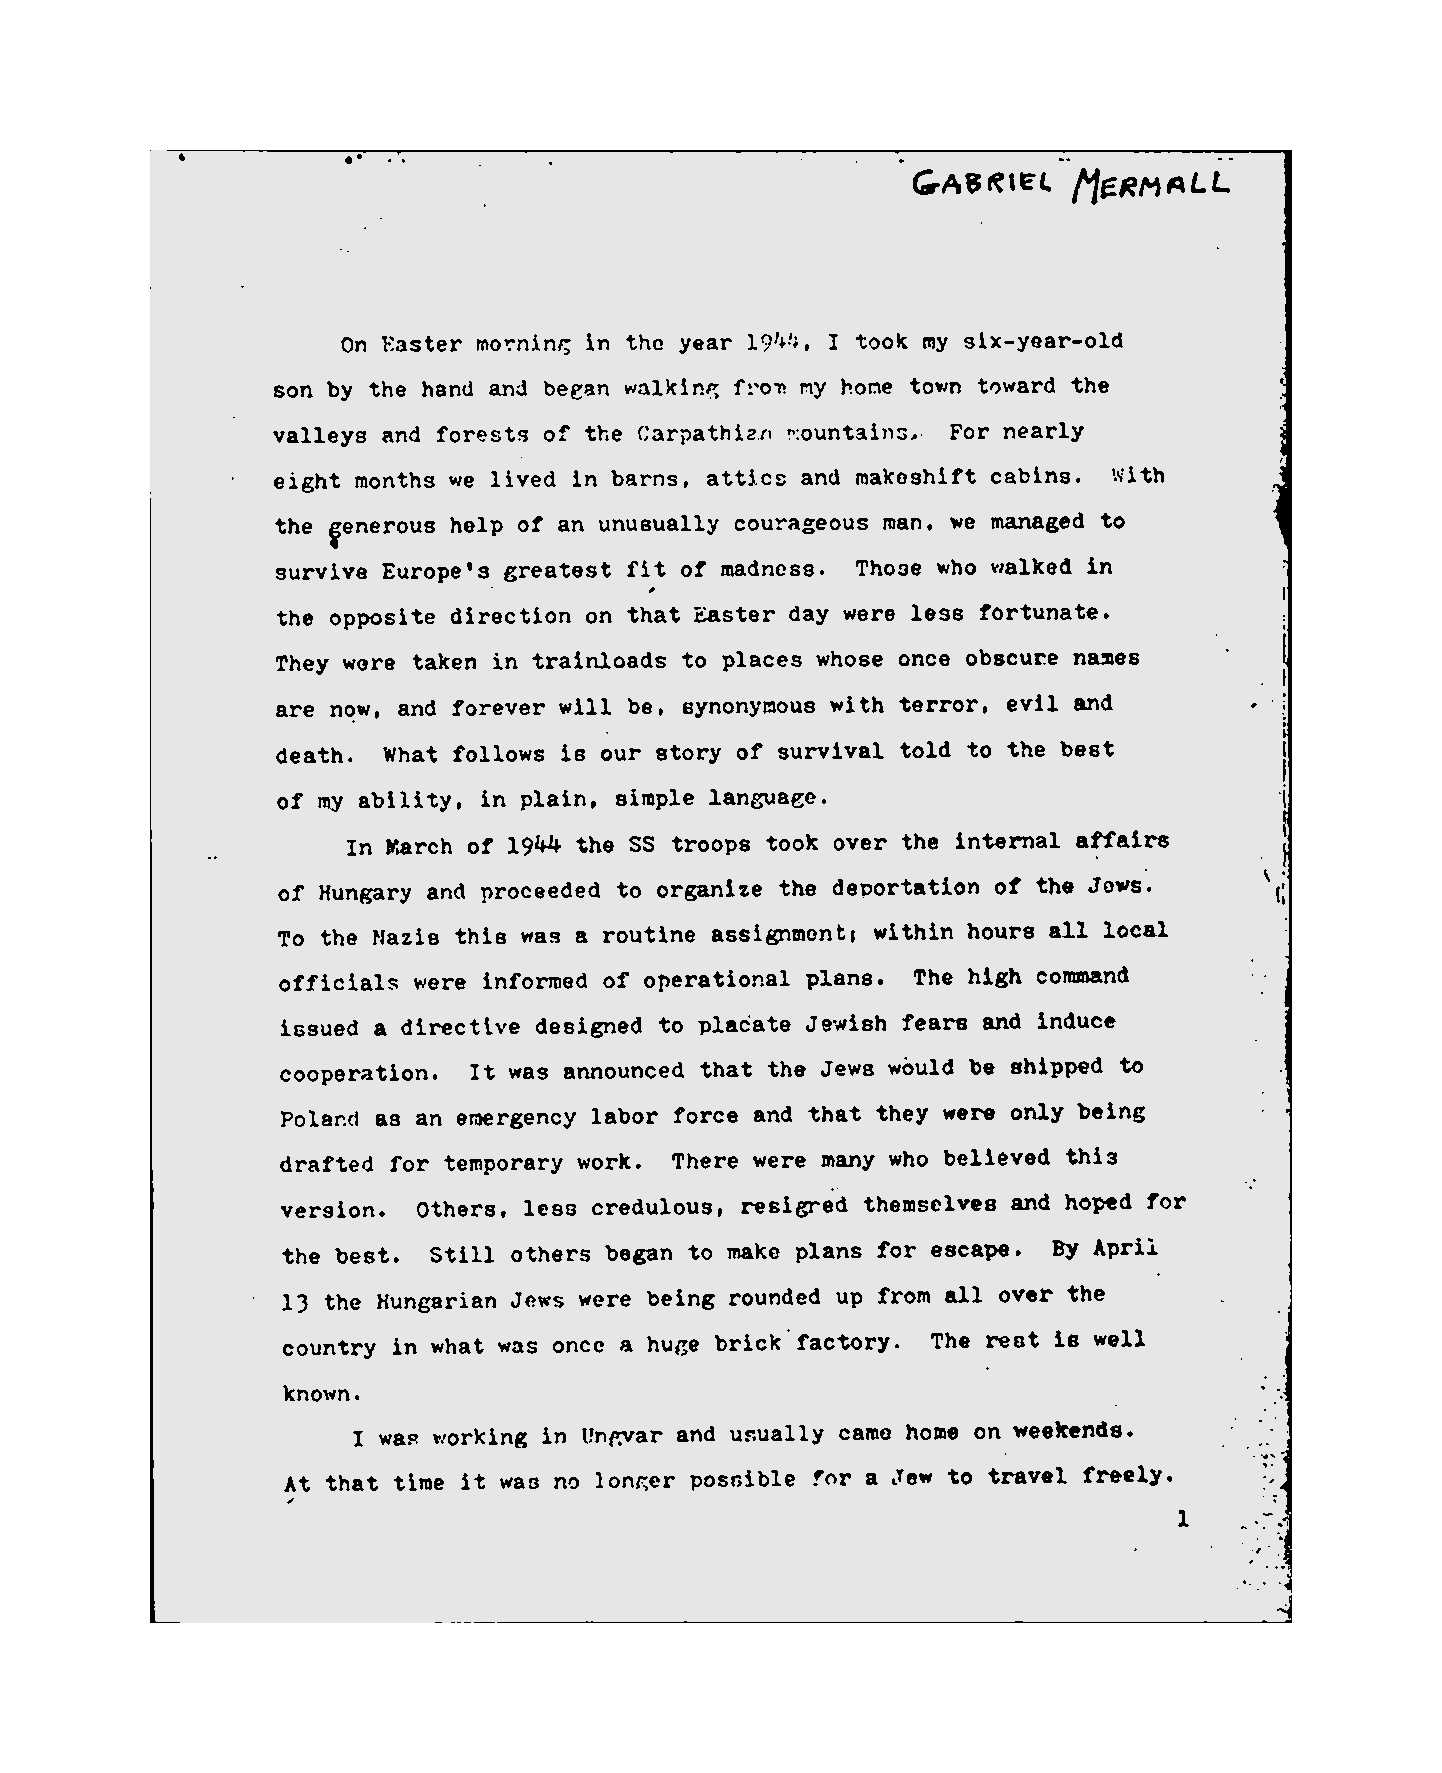
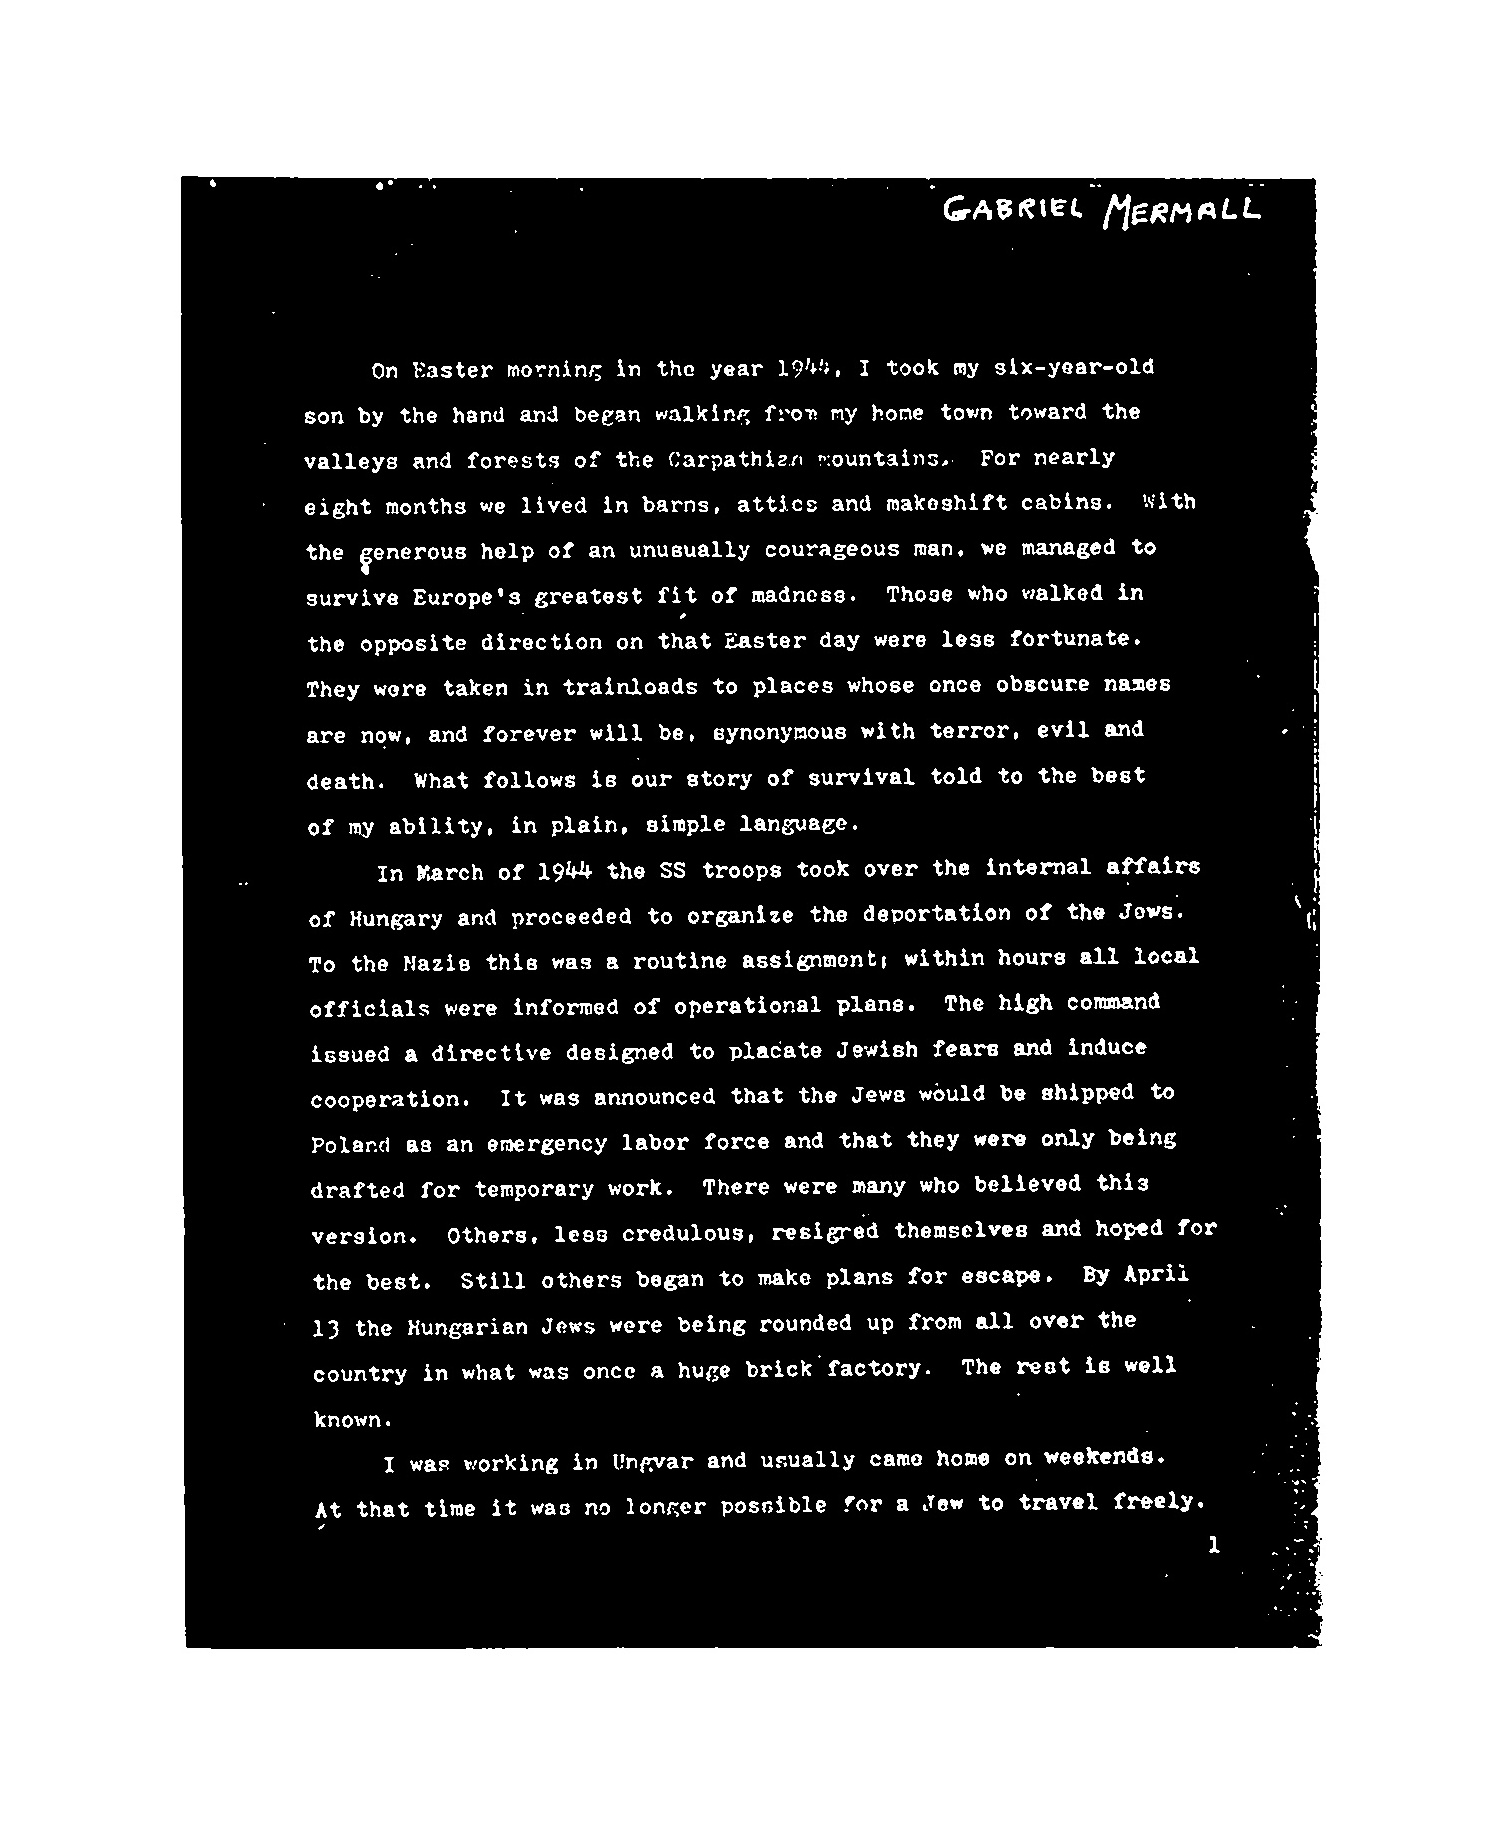
Add missing border, removing borders, pytesseract

diff --git a/Section4-Preprocess_Images_For_TextOCR/removing_borders.py b/Section4-Preprocess_Images_For_TextOCR/removing_borders.py
@@ -1,0 +1,25 @@
+# 7 - Removing Borders
+
+import cv2 as cv
+
+no_noise = cv.imread("Section4-Preprocess_Images_For_TextOCR/temp/no_noise.jpg")
+cv.imshow('No Noise Image', no_noise)
+
+gray = cv.cvtColor(no_noise, cv.COLOR_BGR2GRAY)
+
+# Threshold to get a binary image (invert so text/objects are white)
+_, thresh = cv.threshold(gray, 180, 255, cv.THRESH_BINARY_INV)
+
+def remove_borders(image):
+  contours, hierarchy = cv.findContours(image, cv.RETR_EXTERNAL, cv.CHAIN_APPROX_SIMPLE)
+  cntsSorted = sorted(contours, key=lambda x:cv.contourArea(x))
+  cnt = cntsSorted[-1]
+  x, y, w, h = cv.boundingRect(cnt)
+  crop = image[y:y+h, x:x+w]
+  return (crop)
+
+no_borders = remove_borders(thresh)
+cv.imwrite("Section4-Preprocess_Images_For_TextOCR/temp/no_borders.jpg", no_borders)
+cv.imshow('No Borders', no_borders)
+
+cv.waitKey(0)

diff --git a/Section4-Preprocess_Images_For_TextOCR/missing_borders.py b/Section4-Preprocess_Images_For_TextOCR/missing_borders.py
@@ -1,0 +1,15 @@
+# 8 - Missing Borders
+
+import cv2 as cv
+
+no_borders = cv.imread("Section4-Preprocess_Images_For_TextOCR/temp/no_borders.jpg")
+cv.imshow('No Border Image', no_borders)
+
+color = [255, 255, 255]
+top, bottom, left, right = [150] * 4
+
+image_with_border = cv.copyMakeBorder(no_borders, top, bottom, left, right, cv.BORDER_CONSTANT, value=color)
+cv.imwrite("Section4-Preprocess_Images_For_TextOCR/temp/image_with_border.jpg", image_with_border)
+cv.imshow('Image With Borders', image_with_border)
+
+cv.waitKey(0)

diff --git a/Section4-Preprocess_Images_For_TextOCR/PyTesseract/pyTesseract.py b/Section4-Preprocess_Images_For_TextOCR/PyTesseract/pyTesseract.py
@@ -1,0 +1,14 @@
+# PyTesseract
+# ~ Need to use no noise image
+# ~ For unclear image, need to preprocess before using pytesseract
+
+import pytesseract 
+from PIL import Image
+
+img_file = "Section4-Preprocess_Images_For_TextOCR/data/page_01.jpg"
+no_noise = "Section4-Preprocess_Images_For_TextOCR/temp/no_noise.jpg"
+
+img = Image.open(no_noise)
+ocr_result = pytesseract.image_to_string(img)
+
+print(ocr_result)
